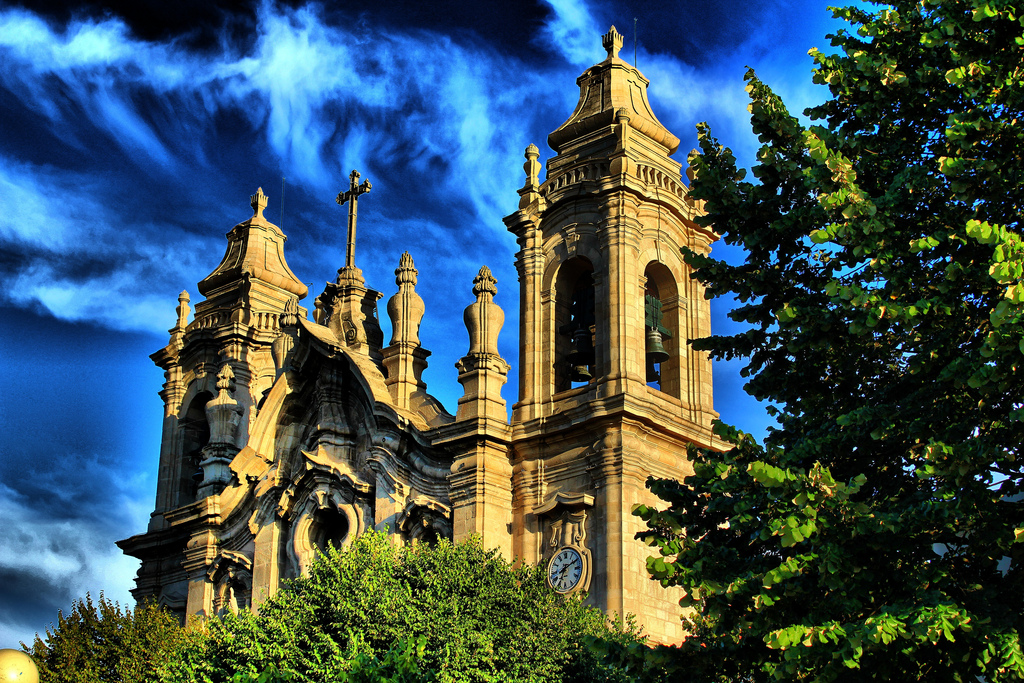
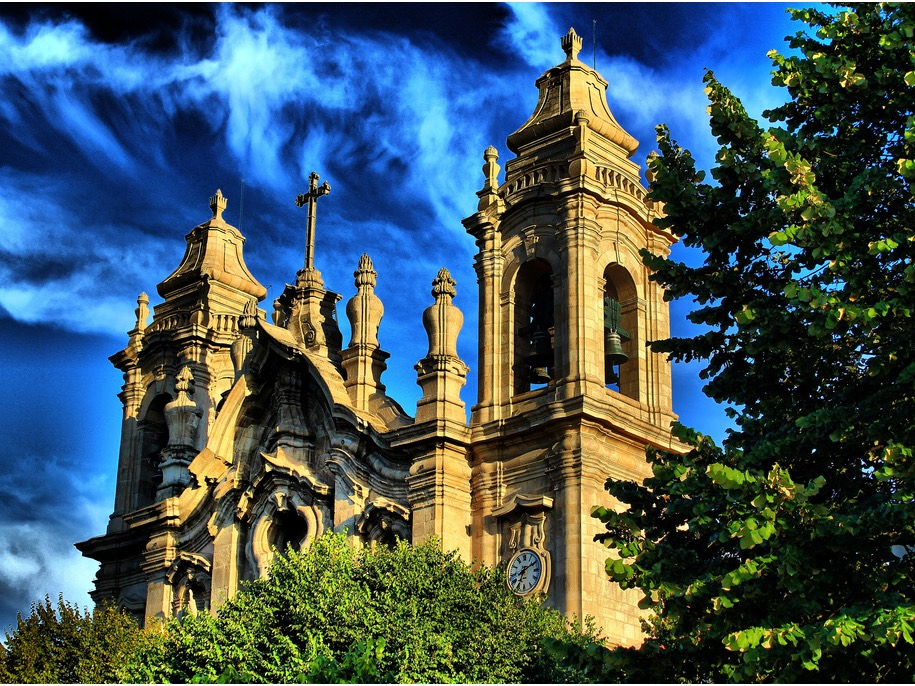
Image compression

diff --git a/js/sei.js b/js/sei.js
@@ -121,7 +121,7 @@ angular.module('sei-app',['angular-carousel'])
             {pic: 'img/staff/jcosta.jpg', name:'João Costa', position: 'Membro', enterprise: 'Minho', facebook:'https://www.facebook.com/arnaldo.asturias.9', twitter: '', github: 'https://github.com/joaofcosta',linkedin:''},
             {pic: 'img/staff/pcardoso.jpg', name:'Paulo Cardoso', position: 'Membro', enterprise: 'Minho', facebook:'', twitter: 'https://twitter.com/HeadlessHeader', github: 'https://github.com/pcardosolei',linkedin:'https://pt.linkedin.com/in/pcardosolei/'},
             {pic: 'img/staff/jarantes.jpg', name:'Joana Arantes', position: 'Membro', enterprise: 'Minho', facebook:'https://www.facebook.com/joana.arantes.10', twitter: '', github: 'https://github.com/joanaarantes',linkedin:''},
-            {pic: 'img/staff/smendes.png', name:'Susana Mendes', position: 'Membro', enterprise: 'Minho', facebook:'', twitter: 'https://twitter.com/Su__Mendes', github: '',linkedin:'https://www.linkedin.com/pub/susana-mendes/43/8b8/906'},
+            {pic: 'img/staff/smendes.jpg', name:'Susana Mendes', position: 'Membro', enterprise: 'Minho', facebook:'', twitter: 'https://twitter.com/Su__Mendes', github: '',linkedin:'https://www.linkedin.com/pub/susana-mendes/43/8b8/906'},
             {pic: 'img/staff/bferreira.jpg', name:'Bruno Ferreira', position: 'Membro', enterprise: 'Minho', twitter: 'https://twitter.com/chalkos', github: 'https://github.com/chalkos',linkedin:'https://pt.linkedin.com/in/chalkos'},
             {pic: 'img/staff/pcosta.jpg', name:'Pedro Costa', position: 'Membro', enterprise: 'Minho', facebook:'https://www.facebook.com/pedrocosta92', twitter: 'https://twitter.com/santosk20', github: 'https://github.com/santosk20',linkedin:''},
             {pic: 'img/staff/dlemos.jpg', name:'Diana Lemos', position: 'Membro', enterprise: 'Minho', facebook:'https://www.facebook.com/dianaguimaraes57', twitter: '', github: 'https://github.com/dianalemos',linkedin:'https://www.linkedin.com/profile/view?id=227209565&trk=nav_responsive_tab_profile'},

diff --git a/events/14-fev.html b/events/14-fev.html
@@ -19,7 +19,7 @@
             <p class="event-title">Improve Braga</p>
             <p class="event-location">14h00 - DI A2</p>
             <div class="event-container event-img-full">
-                <img src="img/events/improve.png" class="col-xs-6" />
+                <img src="img/events/improve.jpg" class="col-xs-6" />
                 <div class="event-description">
                     <p>Descrição</p>
                     O <a href="http://www.improvebraga.org/" target="_blank"><span class="external-link">Improve Braga</span></a> é um encontro de jovens no qual se procura resolver problemas da cidade através de projectos tecnológicos. Desde sites a aplicações móveis, os projetos nascem e são desenvolvidos por quem tem iniciativa para fazer de Braga uma cidade melhor.
